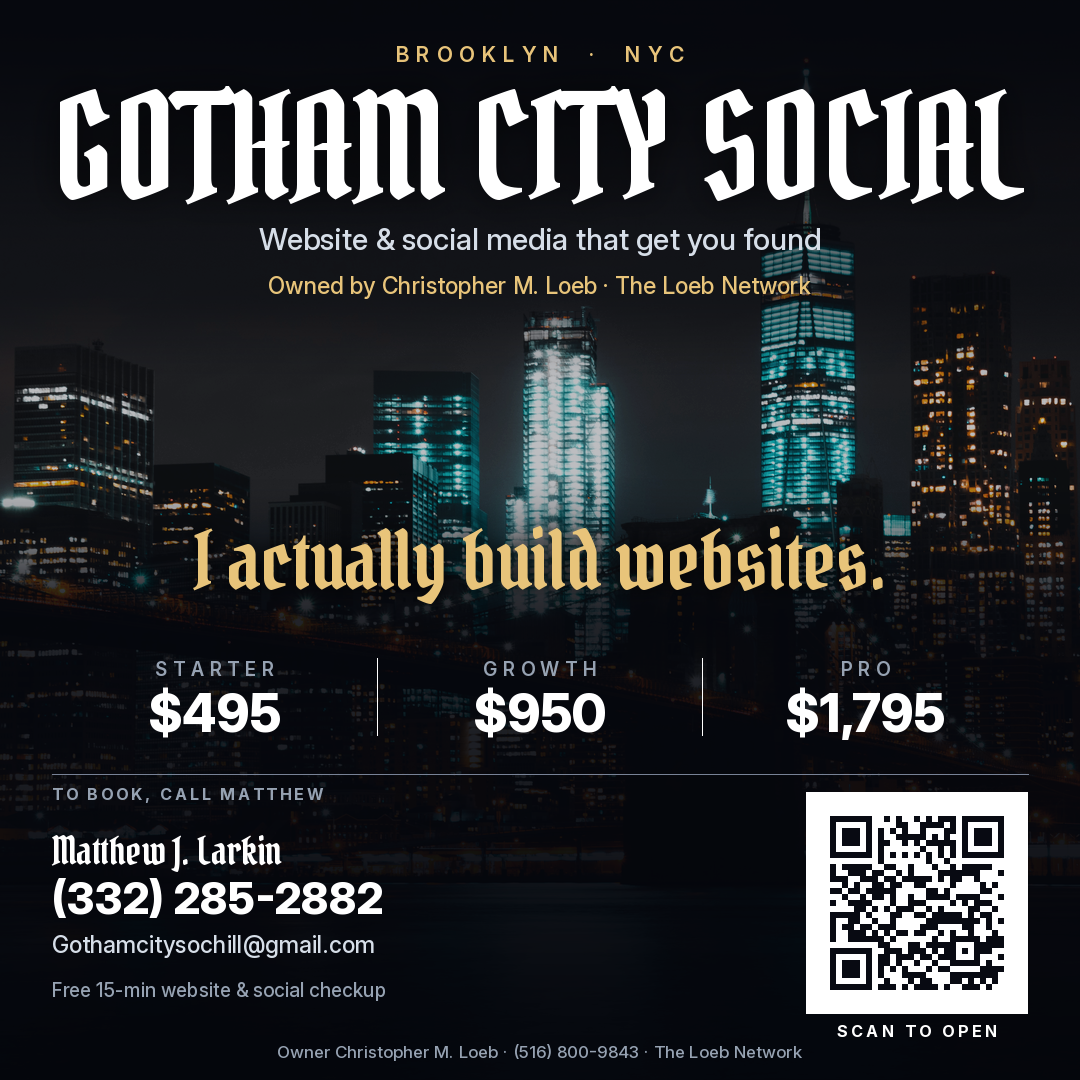
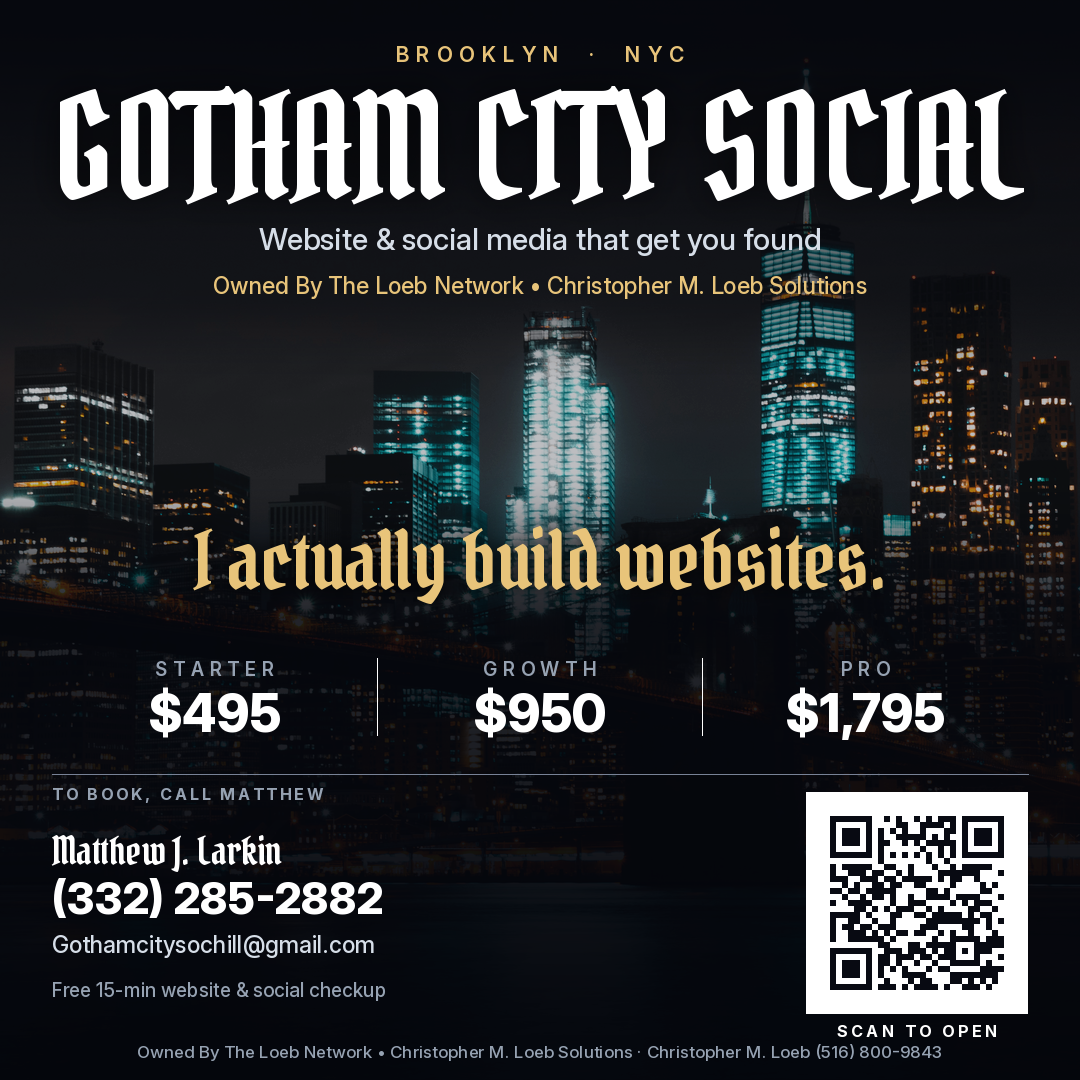
Ownership branding: Owned By The Loeb Network • Christopher M. Loeb Solutions
Hero, about, contact card, footer, operator strip, meta/JSON-LD, manifest, /app/ page and sample-site footers.
Matthew J. Larkin listed as day-to-day booking contact only; Christopher M. Loeb (516) 800-9843 kept as separate contact.
Refresh App_1080 poster assets from flyer v3 rebuild; bump SW cache to gcs-app-v2.

Changed region(s): [[0.1222, 0.9472, 0.8556, 0.9778], [0.1833, 0.2444, 0.7944, 0.275]]

diff --git a/index.html b/index.html
@@ -6,13 +6,13 @@
     <title>Gotham City Social · Websites &amp; social in Brooklyn</title>
     <meta
       name="description"
-      content="Gotham City Social, owned by Christopher M. Loeb. Websites and social for Brooklyn and NYC. Owner (516) 800-9843. Day-to-day client contact: Matthew J. Larkin."
+      content="Gotham City Social · Owned By The Loeb Network • Christopher M. Loeb Solutions. Websites and social for Brooklyn and NYC. Christopher M. Loeb (516) 800-9843. Day-to-day booking contact: Matthew J. Larkin."
     />
     <meta name="theme-color" content="#07080c" />
     <meta property="og:title" content="Gotham City Social" />
     <meta
       property="og:description"
-      content="Owned by Christopher M. Loeb. Website & social media that get you found. Day-to-day client contact: Matthew J. Larkin."
+      content="Owned By The Loeb Network • Christopher M. Loeb Solutions. Website & social media that get you found. Day-to-day booking contact: Matthew J. Larkin."
     />
     <meta property="og:type" content="website" />
     <meta property="og:locale" content="en_US" />
@@ -31,7 +31,7 @@
         "@context": "https://schema.org",
         "@type": "ProfessionalService",
         "name": "Gotham City Social",
-        "description": "Website and social media that get you found. Owned by Christopher M. Loeb.",
+        "description": "Website and social media that get you found. Owned By The Loeb Network • Christopher M. Loeb Solutions.",
         "telephone": "+1-516-800-9843",
         "email": "Gothamcitysochill@gmail.com",
         "url": "https://gotham-city-social.netlify.app/",
@@ -43,14 +43,14 @@
         },
         "parentOrganization": {
           "@type": "Organization",
-          "name": "The Loeb Network · Christopher M. Loeb Solutions",
+          "name": "The Loeb Network • Christopher M. Loeb Solutions",
           "url": "https://starfall-tek.github.io/loeb-network-preview/",
           "telephone": "+1-516-800-9843"
         },
         "employee": {
           "@type": "Person",
           "name": "Matthew J. Larkin",
-          "jobTitle": "Day-to-day / Client contact",
+          "jobTitle": "Day-to-day booking contact",
           "telephone": "+1-332-285-2882",
           "email": "Gothamcitysochill@gmail.com"
         },
@@ -149,9 +149,7 @@
             <a class="btn btn-ghost btn-app" href="./app/">Get the app</a>
           </div>
           <p class="hero-contact hero-ownership">
-            <span>Owned by Christopher M. Loeb</span>
-            <span aria-hidden="true">·</span>
-            <a href="https://starfall-tek.github.io/loeb-network-preview/">The Loeb Network</a>
+            <span>Owned By The Loeb Network • Christopher M. Loeb Solutions</span>
           </p>
         </div>
         <div class="skyline-wrap">
@@ -390,9 +388,8 @@
             <a href="mailto:Gothamcitysochill@gmail.com">Gothamcitysochill@gmail.com</a>
             or
             <a href="tel:+13322852882">(332) 285-2882</a>.
-            Gotham City Social is owned by Christopher M. Loeb
-            (<a href="https://starfall-tek.github.io/loeb-network-preview/">The Loeb Network</a>
-            · <a href="tel:+15168009843">(516) 800-9843</a>).
+            Gotham City Social · Owned By The Loeb Network • Christopher M. Loeb Solutions.
+            Christopher M. Loeb: <a href="tel:+15168009843">(516) 800-9843</a>.
           </p>
         </div>
       </section>
@@ -406,19 +403,22 @@
               Gotham City Social builds websites and sets up social profiles for local businesses. The pages, the profiles, and a phone number that matches.
             </p>
             <p>
-              Gotham City Social is owned by Christopher M. Loeb. Matthew J. Larkin handles day-to-day bookings and client contact.
+              Gotham City Social · Owned By The Loeb Network • Christopher M. Loeb Solutions. Matthew J. Larkin is the day-to-day booking contact.
             </p>
             <dl class="ownership-lines">
               <div>
-                <dt>Owner</dt>
+                <dt>Ownership</dt>
+                <dd>Owned By The Loeb Network • Christopher M. Loeb Solutions</dd>
+              </div>
+              <div>
+                <dt>Christopher M. Loeb</dt>
                 <dd>
-                  Christopher M. Loeb ·
                   <a href="tel:+15168009843">(516) 800-9843</a> ·
                   <a href="https://starfall-tek.github.io/loeb-network-preview/">The Loeb Network</a>
                 </dd>
               </div>
               <div>
-                <dt>Day-to-day / Client contact</dt>
+                <dt>Day-to-day booking contact</dt>
                 <dd>
                   Matthew J. Larkin ·
                   <a href="tel:+13322852882">(332) 285-2882</a> ·
@@ -433,16 +433,12 @@
           </div>
           <div class="contact-stack" id="contact">
             <div class="contact-card">
-              <p class="kicker">Owner</p>
-              <h2>Christopher M. Loeb</h2>
-              <p class="offer">
-                Gotham City Social is owned by Christopher M. Loeb.
-                <a href="https://starfall-tek.github.io/loeb-network-preview/">The Loeb Network</a>
-                · Christopher M. Loeb Solutions.
-              </p>
+              <p class="kicker">Ownership</p>
+              <h2>The Loeb Network</h2>
+              <p class="offer">Owned By The Loeb Network • Christopher M. Loeb Solutions</p>
               <dl class="contact-list">
                 <div>
-                  <dt>Call</dt>
+                  <dt>Call Christopher M. Loeb</dt>
                   <dd><a class="phone" href="tel:+15168009843">(516) 800-9843</a></dd>
                 </div>
                 <div>
@@ -452,7 +448,7 @@
               </dl>
             </div>
             <div class="contact-card">
-              <p class="kicker">Client / day-to-day contact</p>
+              <p class="kicker">Day-to-day booking contact</p>
               <h2>Matthew J. Larkin</h2>
               <p class="offer">
                 Free 15-min website &amp; social checkup. Bring a link, a profile, or just the name of the business.
@@ -498,7 +494,7 @@
                   This opens your email app, addressed to
                   <a href="mailto:Gothamcitysochill@gmail.com">Gothamcitysochill@gmail.com</a>.
                   Or call Matthew at <a href="tel:+13322852882">(332) 285-2882</a>,
-                  or the owner at <a href="tel:+15168009843">(516) 800-9843</a>.
+                  or Christopher M. Loeb at <a href="tel:+15168009843">(516) 800-9843</a>.
                 </p>
                 <p id="form-status" class="form-status" role="status"></p>
               </form>
@@ -514,7 +510,7 @@
           <p class="footer-brand">Gotham City Social</p>
           <p>Website &amp; social media that get you found</p>
           <p class="footer-owner-line">
-            Owned by Christopher M. Loeb · Powered By The Loeb Network · Christopher M. Loeb Solutions
+            Owned By The Loeb Network • Christopher M. Loeb Solutions
           </p>
           <p><a href="tel:+15168009843">(516) 800-9843</a></p>
           <p><a href="https://starfall-tek.github.io/loeb-network-preview/">The Loeb Network</a></p>
@@ -533,7 +529,7 @@
         <div>
           <p class="footer-app"><a class="btn btn-primary" href="./app/">Get the app</a></p>
           <p class="footer-client-line">
-            Client inquiries: Matthew J. Larkin ·
+            Day-to-day bookings: Matthew J. Larkin ·
             <a href="tel:+13322852882">(332) 285-2882</a> ·
             <a href="mailto:Gothamcitysochill@gmail.com">Gothamcitysochill@gmail.com</a>
           </p>
@@ -544,12 +540,12 @@
         <p>© 2026 Gotham City Social</p>
       </div>
       <p class="operator">
-        Gotham City Social · Owned by Christopher M. Loeb · Powered By The Loeb Network · Christopher M. Loeb Solutions ·
-        <a href="tel:+15168009843">(516) 800-9843</a> ·
+        Gotham City Social · Owned By The Loeb Network • Christopher M. Loeb Solutions ·
+        Christopher M. Loeb <a href="tel:+15168009843">(516) 800-9843</a> ·
         <a href="https://starfall-tek.github.io/loeb-network-preview/">The Loeb Network</a>
       </p>
       <p class="operator footer-client-meta">
-        Client inquiries: Matthew J. Larkin ·
+        Day-to-day bookings: Matthew J. Larkin ·
         <a href="tel:+13322852882">(332) 285-2882</a> ·
         <a href="mailto:Gothamcitysochill@gmail.com">Gothamcitysochill@gmail.com</a>
       </p>

diff --git a/app/index.html b/app/index.html
@@ -6,7 +6,7 @@
     <title>Get the app · Gotham City Social</title>
     <meta
       name="description"
-      content="Get the Gotham City Social app — website &amp; social that get you found. Install it on your phone's home screen. Owned by Christopher M. Loeb · The Loeb Network. Bookings: Matthew J. Larkin, (332) 285-2882."
+      content="Get the Gotham City Social app — website &amp; social that get you found. Install it on your phone's home screen. Owned By The Loeb Network • Christopher M. Loeb Solutions. Day-to-day bookings: Matthew J. Larkin, (332) 285-2882."
     />
     <meta name="theme-color" content="#07080c" />
     <meta property="og:title" content="Get the Gotham City Social app" />
@@ -117,8 +117,7 @@
             </div>
             <p id="install-status" class="install-status" role="status"></p>
             <p class="app-owner">
-              Owned by Christopher M. Loeb ·
-              <a href="https://starfall-tek.github.io/loeb-network-preview/">The Loeb Network</a>.
+              Owned By The Loeb Network • Christopher M. Loeb Solutions.
               Day-to-day bookings: Matthew J. Larkin ·
               <a href="tel:+13322852882">(332) 285-2882</a>.
             </p>
@@ -207,7 +206,7 @@
           </div>
           <div class="app-contacts">
             <div class="contact-card">
-              <p class="kicker">Client / day-to-day contact</p>
+              <p class="kicker">Day-to-day booking contact</p>
               <h2>Matthew J. Larkin</h2>
               <p class="offer">Bookings, questions, and current pricing.</p>
               <dl class="contact-list">
@@ -216,14 +215,11 @@
               </dl>
             </div>
             <div class="contact-card">
-              <p class="kicker">Owner</p>
-              <h2>Christopher M. Loeb</h2>
-              <p class="offer">
-                Gotham City Social is owned by Christopher M. Loeb ·
-                <a href="https://starfall-tek.github.io/loeb-network-preview/">The Loeb Network</a> · Christopher M. Loeb Solutions.
-              </p>
+              <p class="kicker">Ownership</p>
+              <h2>The Loeb Network</h2>
+              <p class="offer">Owned By The Loeb Network • Christopher M. Loeb Solutions</p>
               <dl class="contact-list">
-                <div><dt>Call</dt><dd><a class="phone" href="tel:+15168009843">(516) 800-9843</a></dd></div>
+                <div><dt>Call Christopher M. Loeb</dt><dd><a class="phone" href="tel:+15168009843">(516) 800-9843</a></dd></div>
                 <div><dt>Network</dt><dd><a href="https://starfall-tek.github.io/loeb-network-preview/">The Loeb Network</a></dd></div>
               </dl>
             </div>
@@ -237,9 +233,9 @@
     </main>
 
     <footer class="ownership-strip">
-      Gotham City Social · Owned by Christopher M. Loeb · Powered By The Loeb Network · Christopher M. Loeb Solutions ·
-      <a href="tel:+15168009843">(516) 800-9843</a><br />
-      Client inquiries: Matthew J. Larkin · <a href="tel:+13322852882">(332) 285-2882</a> ·
+      Gotham City Social · Owned By The Loeb Network • Christopher M. Loeb Solutions ·
+      Christopher M. Loeb <a href="tel:+15168009843">(516) 800-9843</a><br />
+      Day-to-day bookings: Matthew J. Larkin · <a href="tel:+13322852882">(332) 285-2882</a> ·
       <a href="mailto:Gothamcitysochill@gmail.com">Gothamcitysochill@gmail.com</a>
     </footer>
 

diff --git a/samples/ada-cho/index.html b/samples/ada-cho/index.html
@@ -76,8 +76,8 @@
     </main>
     <footer class="studio-foot">
       <p>Sample — client TBD · site · IG · SEO</p>
-      <p class="op">Gotham City Social · Owned by Christopher M. Loeb · Powered By The Loeb Network · Christopher M. Loeb Solutions · <a href="tel:+15168009843">(516) 800-9843</a> · <a href="https://starfall-tek.github.io/loeb-network-preview/">The Loeb Network</a></p>
-      <p>Client inquiries: Matthew J. Larkin · <a href="tel:+13322852882">(332) 285-2882</a> · <a href="mailto:Gothamcitysochill@gmail.com">Gothamcitysochill@gmail.com</a></p>
+      <p class="op">Gotham City Social · Owned By The Loeb Network • Christopher M. Loeb Solutions · Christopher M. Loeb <a href="tel:+15168009843">(516) 800-9843</a> · <a href="https://starfall-tek.github.io/loeb-network-preview/">The Loeb Network</a></p>
+      <p>Day-to-day bookings: Matthew J. Larkin · <a href="tel:+13322852882">(332) 285-2882</a> · <a href="mailto:Gothamcitysochill@gmail.com">Gothamcitysochill@gmail.com</a></p>
     </footer>
   </body>
 </html>

diff --git a/samples/hester/index.html b/samples/hester/index.html
@@ -66,8 +66,8 @@
     </main>
     <footer class="studio-foot">
       <p>Sample — client TBD · site · IG · SEO</p>
-      <p class="op">Gotham City Social · Owned by Christopher M. Loeb · Powered By The Loeb Network · Christopher M. Loeb Solutions · <a href="tel:+15168009843">(516) 800-9843</a> · <a href="https://starfall-tek.github.io/loeb-network-preview/">The Loeb Network</a></p>
-      <p>Client inquiries: Matthew J. Larkin · <a href="tel:+13322852882">(332) 285-2882</a> · <a href="mailto:Gothamcitysochill@gmail.com">Gothamcitysochill@gmail.com</a></p>
+      <p class="op">Gotham City Social · Owned By The Loeb Network • Christopher M. Loeb Solutions · Christopher M. Loeb <a href="tel:+15168009843">(516) 800-9843</a> · <a href="https://starfall-tek.github.io/loeb-network-preview/">The Loeb Network</a></p>
+      <p>Day-to-day bookings: Matthew J. Larkin · <a href="tel:+13322852882">(332) 285-2882</a> · <a href="mailto:Gothamcitysochill@gmail.com">Gothamcitysochill@gmail.com</a></p>
     </footer>
   </body>
 </html>

diff --git a/samples/linden/index.html b/samples/linden/index.html
@@ -74,8 +74,8 @@
     </main>
     <footer class="studio-foot">
       <p>Sample — client TBD · site · IG · SEO</p>
-      <p class="op">Gotham City Social · Owned by Christopher M. Loeb · Powered By The Loeb Network · Christopher M. Loeb Solutions · <a href="tel:+15168009843">(516) 800-9843</a> · <a href="https://starfall-tek.github.io/loeb-network-preview/">The Loeb Network</a></p>
-      <p>Client inquiries: Matthew J. Larkin · <a href="tel:+13322852882">(332) 285-2882</a> · <a href="mailto:Gothamcitysochill@gmail.com">Gothamcitysochill@gmail.com</a></p>
+      <p class="op">Gotham City Social · Owned By The Loeb Network • Christopher M. Loeb Solutions · Christopher M. Loeb <a href="tel:+15168009843">(516) 800-9843</a> · <a href="https://starfall-tek.github.io/loeb-network-preview/">The Loeb Network</a></p>
+      <p>Day-to-day bookings: Matthew J. Larkin · <a href="tel:+13322852882">(332) 285-2882</a> · <a href="mailto:Gothamcitysochill@gmail.com">Gothamcitysochill@gmail.com</a></p>
     </footer>
   </body>
 </html>

diff --git a/samples/marigold/index.html b/samples/marigold/index.html
@@ -72,8 +72,8 @@
     </main>
     <footer class="studio-foot">
       <p>Sample — client TBD · site · IG · SEO</p>
-      <p class="op">Gotham City Social · Owned by Christopher M. Loeb · Powered By The Loeb Network · Christopher M. Loeb Solutions · <a href="tel:+15168009843">(516) 800-9843</a> · <a href="https://starfall-tek.github.io/loeb-network-preview/">The Loeb Network</a></p>
-      <p>Client inquiries: Matthew J. Larkin · <a href="tel:+13322852882">(332) 285-2882</a> · <a href="mailto:Gothamcitysochill@gmail.com">Gothamcitysochill@gmail.com</a></p>
+      <p class="op">Gotham City Social · Owned By The Loeb Network • Christopher M. Loeb Solutions · Christopher M. Loeb <a href="tel:+15168009843">(516) 800-9843</a> · <a href="https://starfall-tek.github.io/loeb-network-preview/">The Loeb Network</a></p>
+      <p>Day-to-day bookings: Matthew J. Larkin · <a href="tel:+13322852882">(332) 285-2882</a> · <a href="mailto:Gothamcitysochill@gmail.com">Gothamcitysochill@gmail.com</a></p>
     </footer>
   </body>
 </html>

diff --git a/samples/salt-seventh/index.html b/samples/salt-seventh/index.html
@@ -63,8 +63,8 @@
     </main>
     <footer class="studio-foot">
       <p>Sample — client TBD · site · IG · SEO</p>
-      <p class="op">Gotham City Social · Owned by Christopher M. Loeb · Powered By The Loeb Network · Christopher M. Loeb Solutions · <a href="tel:+15168009843">(516) 800-9843</a> · <a href="https://starfall-tek.github.io/loeb-network-preview/">The Loeb Network</a></p>
-      <p>Client inquiries: Matthew J. Larkin · <a href="tel:+13322852882">(332) 285-2882</a> · <a href="mailto:Gothamcitysochill@gmail.com">Gothamcitysochill@gmail.com</a></p>
+      <p class="op">Gotham City Social · Owned By The Loeb Network • Christopher M. Loeb Solutions · Christopher M. Loeb <a href="tel:+15168009843">(516) 800-9843</a> · <a href="https://starfall-tek.github.io/loeb-network-preview/">The Loeb Network</a></p>
+      <p>Day-to-day bookings: Matthew J. Larkin · <a href="tel:+13322852882">(332) 285-2882</a> · <a href="mailto:Gothamcitysochill@gmail.com">Gothamcitysochill@gmail.com</a></p>
     </footer>
   </body>
 </html>

diff --git a/sw.js b/sw.js
@@ -1,7 +1,7 @@
 /* Gotham City Social web app — network-first service worker.
    Always tries the live site first (so new deploys show up immediately);
    falls back to the last cached copy when offline. */
-const CACHE = "gcs-app-v1";
+const CACHE = "gcs-app-v2";
 const CORE = ["./", "./index.html", "./app/", "./manifest.webmanifest", "./favicon.svg",
   "./assets/app/icon-192.png", "./assets/app/icon-512.png", "./assets/app/app-art-720.jpg"];
 
